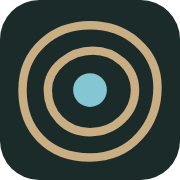
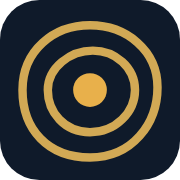
Switch to night survey theme; keep portrait still
- New palette: deep navy ground, parchment type, gold contours and
  actions (all text pairs 7:1 or better). Single dark theme, with
  favicon, touch icon, theme-color and social image updated to match.
- Portrait no longer moves: removed the pop-in and the pointer/scroll
  parallax. Instead, a slow ripple travels outward through the contour
  lines behind it, paused when the hero is off screen and skipped
  with reduced motion.
- Contact and footer use dedicated deep-surface tokens; contact
  terrain drawn in gold.

Claude-Session: https://claude.ai/code/session_015jcJZEzQ6ZcDAWNu1TrFER

Changed region(s): [[0.0833, 0.1111, 0.9167, 0.9167], [0.2222, 0.25, 0.7778, 0.7778], [0.3889, 0.3889, 0.6111, 0.6111]]

diff --git a/assets/css/site.css b/assets/css/site.css
@@ -1,6 +1,5 @@
 /* Chris Caudill: personal site
-   Palette and motif borrow from topographic survey maps:
-   cool map paper, spruce ink, contour brown, and a deep water teal for actions. */
+   Motif borrows from topographic survey maps. */
 
 @font-face {
   font-family: "Archivo";
@@ -18,16 +17,20 @@
 }
 
 :root {
-  --paper: #f3f4ef;
-  --paper-2: #e8eae2;
-  --ink: #1a2b2a;
-  --ink-soft: #4a5a57;
-  --contour: #a3875f;
-  --contour-strong: #7d6240;
-  --rule: #cdd0c4;
-  --accent: #1d5e6b;
-  --accent-hover: #164a55;
-  --on-accent: #ffffff;
+  /* Night survey: a topographic map read by headlamp.
+     Deep navy ground, parchment type, gold contours and actions. */
+  --paper: #0f1a2a;
+  --paper-2: #15233a;
+  --ink: #ede6d6;
+  --ink-soft: #b3ac9c;
+  --contour: #8c7444;
+  --contour-strong: #d2a955;
+  --rule: #26344d;
+  --accent: #e8b04b;
+  --accent-hover: #f2c672;
+  --on-accent: #1a1408;
+  --deep: #0a1220;
+  --on-deep: #ede6d6;
 
   --font-ui: "Archivo", ui-sans-serif, system-ui, -apple-system, "Segoe UI", sans-serif;
   --font-text: "Source Serif 4", ui-serif, Georgia, "Times New Roman", serif;
@@ -42,23 +45,9 @@
   --gutter: clamp(1.25rem, 4vw, 3rem);
   --header-h: 4rem;
 
-  color-scheme: light dark;
+  color-scheme: dark;
 }
 
-@media (prefers-color-scheme: dark) {
-  :root {
-    --paper: #121b1a;
-    --paper-2: #182423;
-    --ink: #e6e9e2;
-    --ink-soft: #a9b6b1;
-    --contour: #6e5c45;
-    --contour-strong: #9b8160;
-    --rule: #2b3a38;
-    --accent: #84c6d1;
-    --accent-hover: #a6d8e0;
-    --on-accent: #0d1716;
-  }
-}
 
 *,
 *::before,
@@ -82,6 +71,8 @@ body {
 }
 
 img { display: block; max-width: 100%; height: auto; }
+
+::selection { background: var(--accent); color: var(--on-accent); }
 
 h1, h2, h3 {
   font-family: var(--font-ui);
@@ -541,13 +532,14 @@ a:hover { color: var(--accent-hover); text-decoration-thickness: 2px; }
 
 /* Contact */
 .contact {
+  border-top: 1px solid var(--rule);
   padding-block: clamp(4rem, 9vw, 7.5rem);
-  background: var(--ink);
-  color: var(--paper);
+  background: var(--deep);
+  color: var(--on-deep);
 }
-.contact a { color: var(--paper); }
-.contact a:hover { color: var(--paper); }
-.contact :focus-visible { outline-color: var(--paper); }
+.contact a { color: var(--on-deep); }
+.contact a:hover { color: var(--on-deep); }
+.contact :focus-visible { outline-color: var(--on-deep); }
 .contact__title {
   font-size: clamp(2.5rem, 1.5rem + 4vw, 4.5rem);
   font-weight: 800;
@@ -579,21 +571,16 @@ a:hover { color: var(--accent-hover); text-decoration-thickness: 2px; }
 /* Footer */
 .site-footer {
   padding-block: 1.75rem;
-  background: var(--ink);
-  color: var(--paper);
-  border-top: 1px solid color-mix(in srgb, var(--paper) 18%, transparent);
+  background: var(--deep);
+  color: var(--on-deep);
+  border-top: 1px solid color-mix(in srgb, var(--on-deep) 18%, transparent);
   font-family: var(--font-ui);
   font-size: 0.9375rem;
 }
 .site-footer .wrap { display: flex; justify-content: space-between; gap: 1rem; flex-wrap: wrap; }
 .site-footer p { margin: 0; opacity: 0.8; }
-.site-footer a { color: var(--paper); }
+.site-footer a { color: var(--on-deep); }
 
-@media (prefers-color-scheme: dark) {
-  .contact, .site-footer { background: #0c1312; color: var(--ink); }
-  .contact a, .contact a:hover, .site-footer a { color: var(--ink); }
-  .contact :focus-visible { outline-color: var(--accent); }
-}
 
 /* Talks: stage photo */
 .stage { margin: 0 0 3rem; }
@@ -648,7 +635,7 @@ a:hover { color: var(--accent-hover); text-decoration-thickness: 2px; }
   pointer-events: none;
 }
 .contact__terrain svg { width: 100%; height: 100%; }
-.contact__terrain path { fill: none; stroke: currentColor; stroke-width: 1.2; vector-effect: non-scaling-stroke; }
+.contact__terrain path { fill: none; stroke: var(--contour-strong); stroke-width: 1.2; vector-effect: non-scaling-stroke; }
 .contact__terrain path.ix { stroke-width: 2; }
 @media (max-width: 860px) { .contact__terrain { right: -45%; width: 140vw; opacity: 0.12; } }
 
@@ -694,14 +681,17 @@ a:hover { color: var(--accent-hover); text-decoration-thickness: 2px; }
   .js .hero__path { animation-delay: 640ms; }
   .js .hero__actions { animation-delay: 720ms; }
 
-  .js .summit__photo { opacity: 0; scale: 0.7; animation: pop 1s var(--ease-spring) 120ms forwards; }
-
+  /* The lines draw in once, then a soft ripple keeps travelling outward
+     from the summit. The portrait itself never moves. */
   .contours path {
     stroke-dasharray: 1;
     stroke-dashoffset: 1;
-    animation: survey 1.4s cubic-bezier(0.3, 0.6, 0.2, 1) forwards;
-    animation-delay: calc(200ms + var(--i) * 1.1s);
+    stroke-opacity: 0.5;
+    animation:
+      survey 1.4s cubic-bezier(0.3, 0.6, 0.2, 1) calc(200ms + var(--i) * 1.1s) forwards,
+      ripple 8s ease-in-out calc(2.6s + var(--i) * 2.4s) infinite;
   }
+  .summit.is-offscreen .contours path { animation-play-state: running, paused; }
 
   /* Contact terrain draws when the section arrives, then drifts slowly */
   .reveal-ready .contact__terrain path { stroke-dasharray: 1; stroke-dashoffset: 1; }
@@ -749,8 +739,11 @@ a:hover { color: var(--accent-hover); text-decoration-thickness: 2px; }
 
   @keyframes rise { to { transform: translateY(0); } }
   @keyframes fade-up { to { opacity: 1; translate: 0 0; } }
-  @keyframes pop { to { opacity: 1; scale: 1; } }
   @keyframes survey { to { stroke-dashoffset: 0; } }
+  @keyframes ripple {
+    0%, 50%, 100% { stroke-opacity: 0.5; }
+    16% { stroke-opacity: 1; }
+  }
   @keyframes drift {
     from { transform: translate(0, 0) rotate(0deg); }
     to { transform: translate(-3%, 2%) rotate(6deg); }

diff --git a/assets/js/site.js b/assets/js/site.js
@@ -3,7 +3,6 @@
   root.classList.add("js");
 
   var reduceMotion = window.matchMedia("(prefers-reduced-motion: reduce)");
-  var finePointer = window.matchMedia("(hover: hover) and (pointer: fine)");
 
   var header = document.querySelector(".site-header");
   var toggle = document.querySelector(".menu-toggle");
@@ -170,75 +169,11 @@
     ).observe(contact);
   }
 
-  /* ---------- Hero: the terrain tilts toward the pointer ----------
-     Each contour shifts by its elevation, so the summit (and the photo on it)
-     moves most and the map reads as a raised surface. Scrolling adds a little
-     lift too, so touch devices get depth without a pointer. */
+  /* ---------- Hero: pause the contour ripple while it's off screen ---------- */
   var summit = document.querySelector(".summit");
-  if (summit && heroMap && !reduceMotion.matches) {
-    var layers = Array.prototype.map.call(heroMap.querySelectorAll("path"), function (p) {
-      return { el: p, depth: 1 - parseFloat(p.style.getPropertyValue("--i") || "0") };
-    });
-    var photo = summit.querySelector(".summit__photo");
-    var target = { x: 0, y: 0 };
-    var pos = { x: 0, y: 0 };
-    var running = false;
-    var heroVisible = true;
-    var MAX = 26; // px of travel at the summit
-
-    function frame() {
-      var scrollLift = Math.min(window.scrollY, 600) * -0.06;
-      pos.x += (target.x - pos.x) * 0.08;
-      pos.y += (target.y + scrollLift - pos.y) * 0.08;
-
-      for (var i = 0; i < layers.length; i++) {
-        var d = layers[i].depth * layers[i].depth;
-        layers[i].el.style.translate = (pos.x * d).toFixed(2) + "px " + (pos.y * d).toFixed(2) + "px";
-      }
-      photo.style.translate = pos.x.toFixed(2) + "px " + pos.y.toFixed(2) + "px";
-
-      var settled = Math.abs(target.x - pos.x) < 0.05 && Math.abs(target.y + scrollLift - pos.y) < 0.05;
-      if (heroVisible && !settled) {
-        window.requestAnimationFrame(frame);
-      } else {
-        running = false;
-      }
-    }
-    function kick() {
-      if (!running && heroVisible) {
-        running = true;
-        window.requestAnimationFrame(frame);
-      }
-    }
-
-    if (finePointer.matches) {
-      window.addEventListener(
-        "pointermove",
-        function (e) {
-          var box = summit.getBoundingClientRect();
-          var cx = box.left + box.width / 2;
-          var cy = box.top + box.height / 2;
-          var nx = Math.max(-1, Math.min(1, (e.clientX - cx) / (window.innerWidth / 2)));
-          var ny = Math.max(-1, Math.min(1, (e.clientY - cy) / (window.innerHeight / 2)));
-          target.x = nx * MAX;
-          target.y = ny * MAX;
-          kick();
-        },
-        { passive: true }
-      );
-      document.addEventListener("pointerleave", function () {
-        target.x = 0;
-        target.y = 0;
-        kick();
-      });
-    }
-    window.addEventListener("scroll", kick, { passive: true });
-
-    if ("IntersectionObserver" in window) {
-      new IntersectionObserver(function (entries) {
-        heroVisible = entries[0].isIntersecting;
-        if (heroVisible) kick();
-      }).observe(summit);
-    }
+  if (summit && "IntersectionObserver" in window) {
+    new IntersectionObserver(function (entries) {
+      summit.classList.toggle("is-offscreen", !entries[0].isIntersecting);
+    }).observe(summit);
   }
 })();

diff --git a/index.html b/index.html
@@ -6,8 +6,8 @@
   <title>Chris Caudill, Senior Machine Learning Engineer</title>
   <meta name="description" content="Chris Caudill is a senior machine learning engineer at Snowflake who builds ML and LLM systems for healthcare and life sciences, from retrieval-augmented generation to production ML platforms.">
   <link rel="canonical" href="https://cscaudill.github.io/">
-  <meta name="theme-color" content="#F3F4EF" media="(prefers-color-scheme: light)">
-  <meta name="theme-color" content="#121B1A" media="(prefers-color-scheme: dark)">
+  <meta name="theme-color" content="#0f1a2a">
+  <meta name="color-scheme" content="dark">
 
   <meta property="og:type" content="profile">
   <meta property="og:title" content="Chris Caudill, Senior Machine Learning Engineer">
